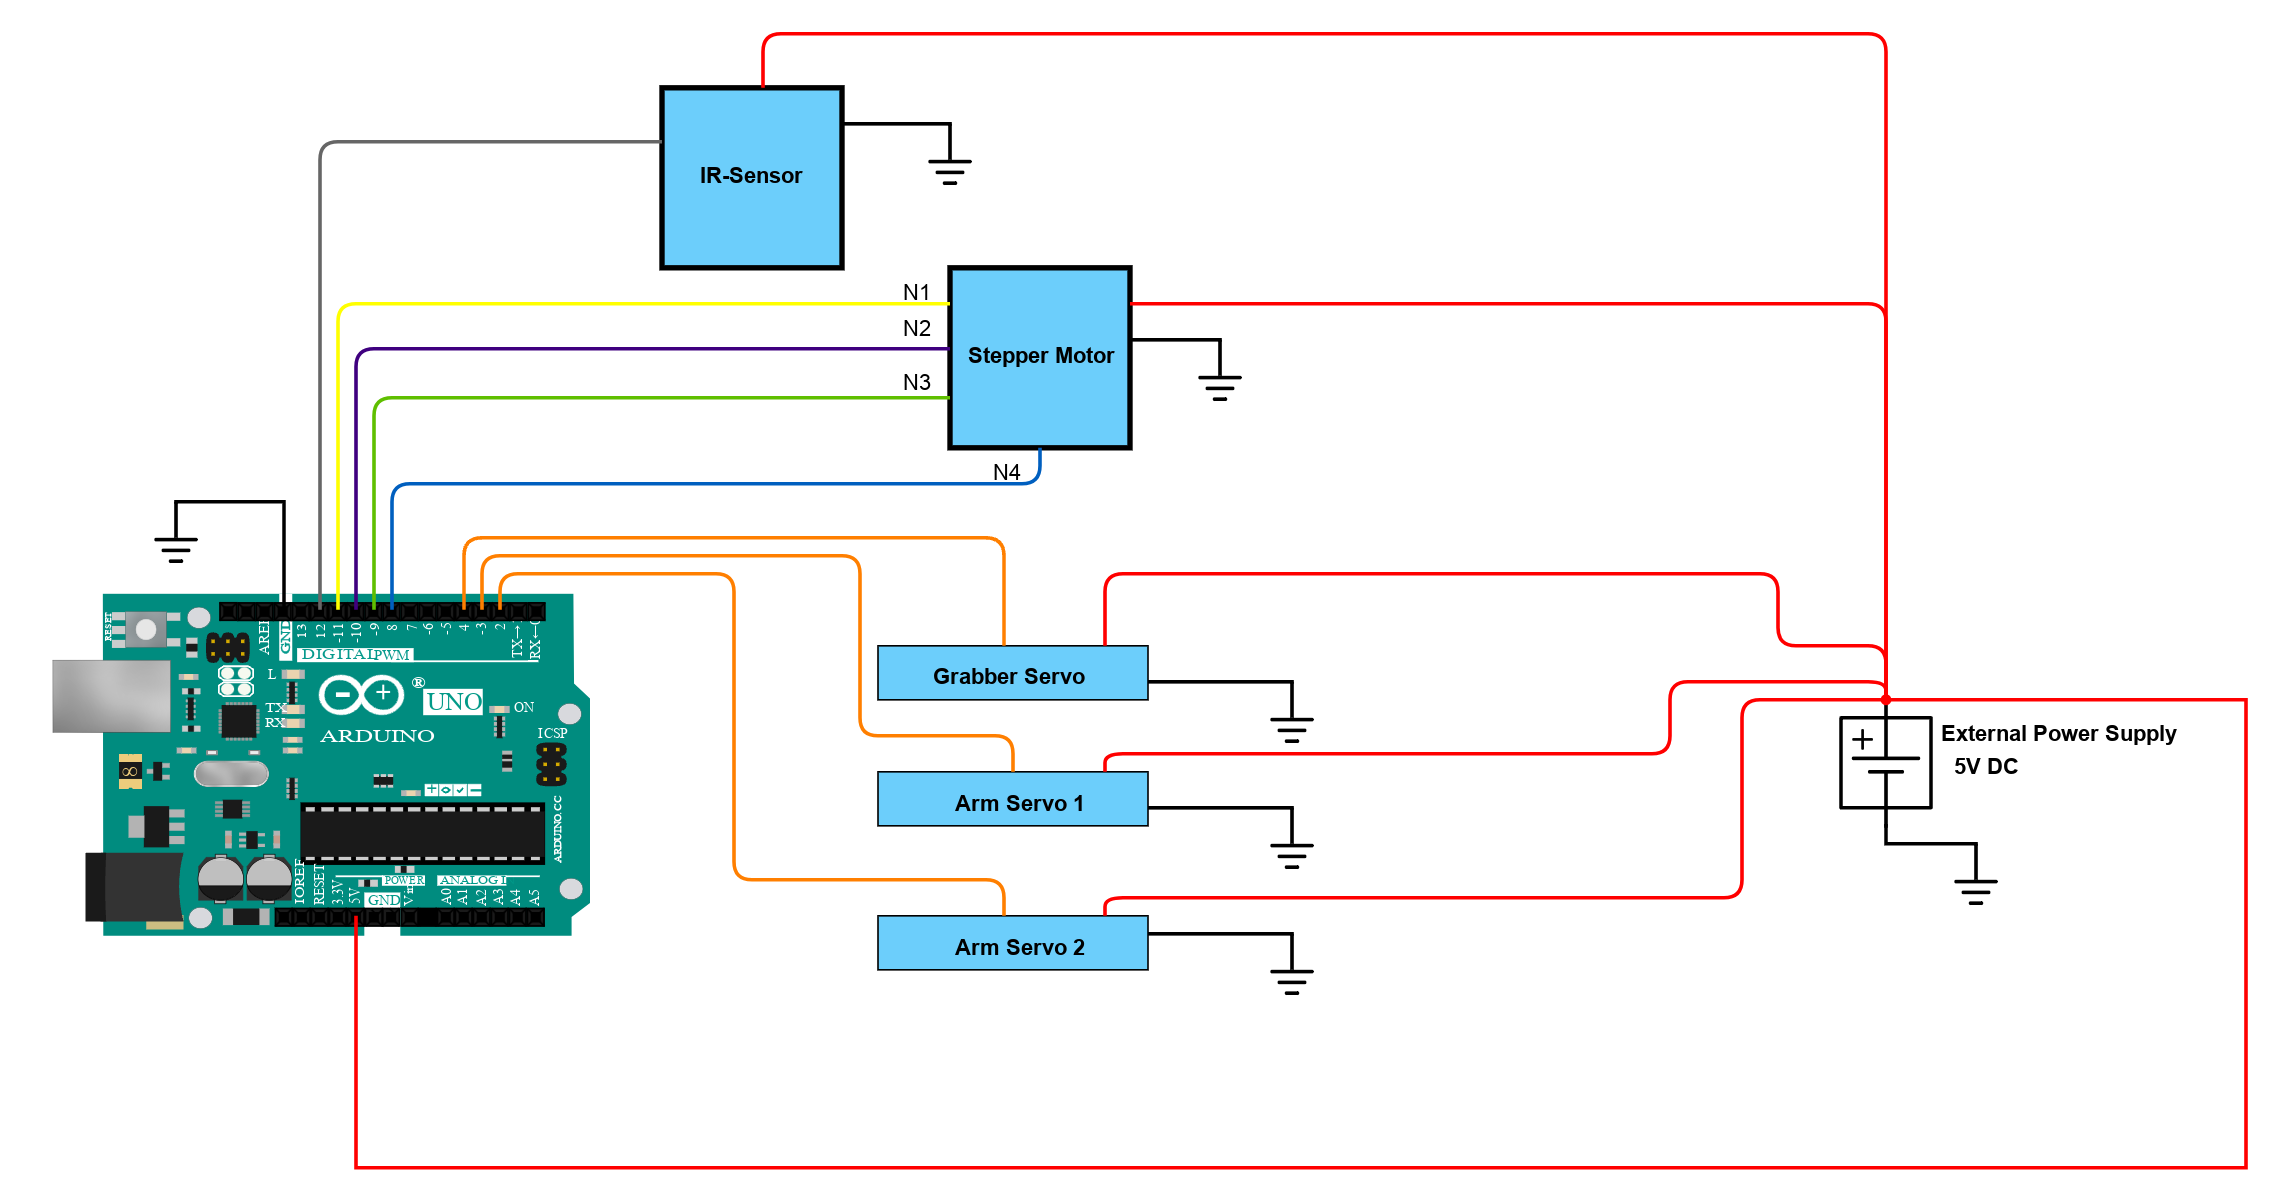
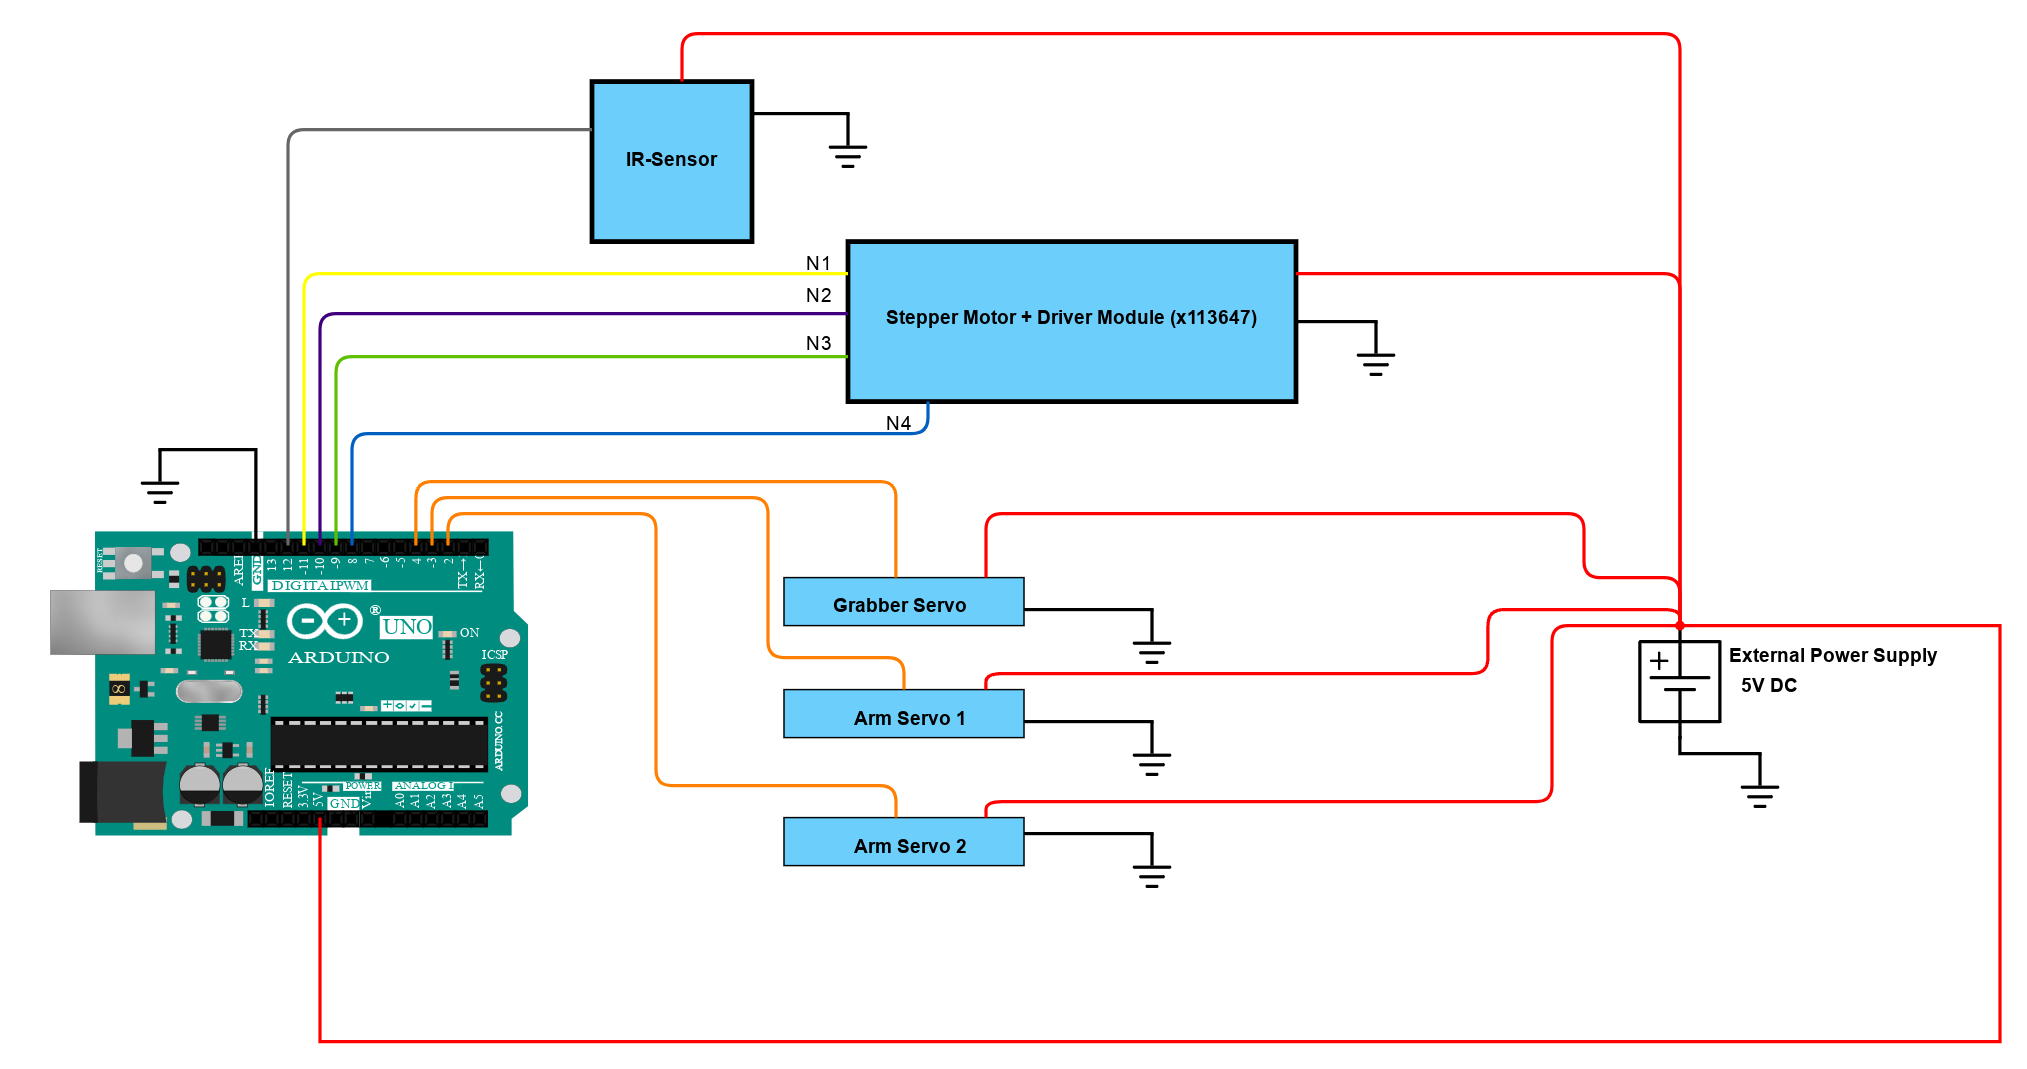
README update

diff --git a/ReadMe.md b/ReadMe.md
@@ -1,6 +1,6 @@
 # ENGR 271 Final Project
 
-**Group Members:** Gabriel Martinez, Art Leyva, Aydan Sieto
+**Group Members:** Aydan Sieto, Gabriel Martinez, Art Leyva
 
 ---
 